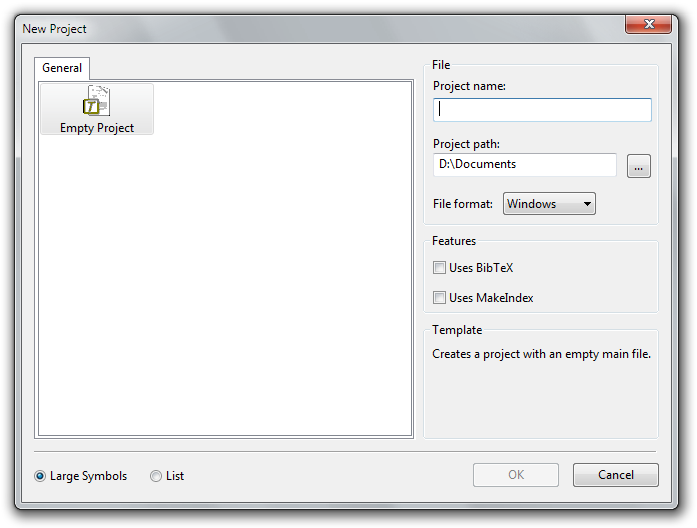
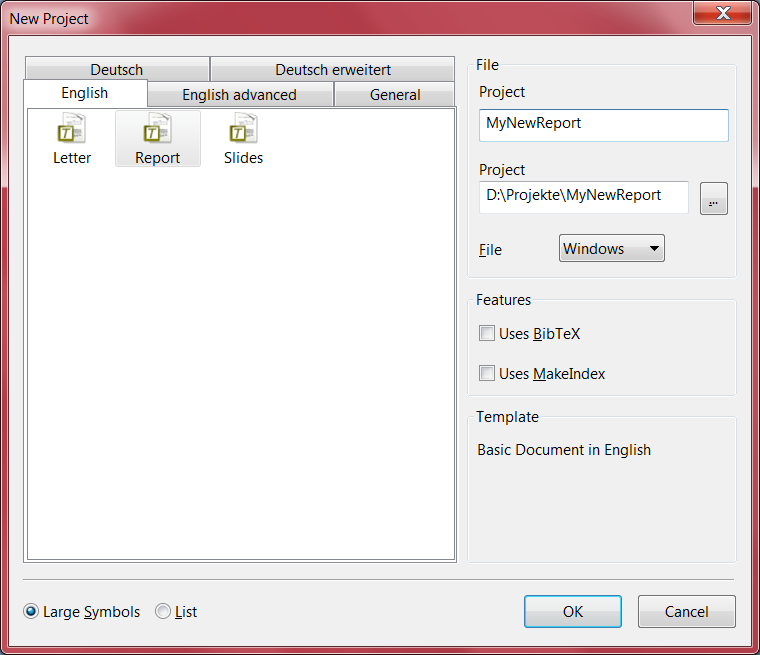
Help update

Changed region(s): [[0.0, 0.0, 1.0, 1.0]]

diff --git a/TCHelp/doctemplates.html b/TCHelp/doctemplates.html
@@ -43,7 +43,7 @@
           <div class="body">
             
   <div class="section" id="document-templates">
-<h1>Document templates</h1>
+<span id="id1"></span><h1>Document templates</h1>
 <p>TeXnicCenter provides support for custom document templates.</p>
 <p>A document template is a simple file or a wizard that generates a frame for a
 new document. When using document frames over and over again (i.e. a letter),
@@ -54,12 +54,17 @@ then using document templates will be a big help.</p>
 <li>Document wizards</li>
 </ul>
 <p>Several directories that contain document templates can be specified in the path
-options. The specified directories should contain sub-directories which
+options. The specified directories can contain sub-directories which
 represent the categories of the templates.</p>
-<p>When a new project is created TeXnicCenter provides the document templates found
+<p>When a new project is created, TeXnicCenter provides the templates found
 on the left side of the dialog <em class="xref std std-dialog">New Project</em>.</p>
-<p>The tabs represent the sub-directories of the directories specified in the path
-options. If one or more directories contain the same sub-directory TeXnicCenter
+<div class="figure">
+<img alt="_images/newproject.png" src="_images/newproject.png" />
+<p class="caption">The <em class="xref std std-dialog">New Project</em> dialog. See also the section on <a class="reference internal" href="projects.html#project-management"><em>project management</em></a>.</p>
+</div>
+<p>The tabs represent the sub-directories of the directories specified
+in the <a class="reference internal" href="options.html#directory-options"><em>directory options</em></a>.
+If one or more directories contain the same sub-directory, TeXnicCenter
 will display the files found in those sub-directories together in one merged
 list.</p>
 <div class="section" id="example">
@@ -112,13 +117,10 @@ company&#8217;s directory merged with templates from the local drive:</p>
 </ul>
 </div>
 <div class="section" id="file-based-document-templates">
-<h2>File based document templates</h2>
-<p>File based document templates are document templates created most easily.
-Templates of this type will be marked with this icon in the dialog
-<em class="xref std std-dialog">Project New</em>:</p>
-<p>A file based document template is a simple text file with the <tt class="file docutils literal"><span class="pre">.tex</span></tt> file
-extension placed in one of the template directories specified in the tab Path
-options.</p>
+<h2>File-based document templates</h2>
+<p>A file-based document template is created most easily.
+It is a simple text file with the <tt class="file docutils literal"><span class="pre">.tex</span></tt> file
+extension placed in one of the <a class="reference internal" href="options.html#directory-options"><em>template directories</em></a>.</p>
 <p>Such a file can contain an optional description that will be displayed in the
 field template description of the dialog <em class="xref std std-dialog">Project New</em>, when the
 template has been selected by the user. To create such a description simply
@@ -129,7 +131,7 @@ will copy the selected template file to the project&#8217;s directory, rename it
 the project&#8217;s name, remove the description line (if there is any) and replace
 the line delimiters with the ones, specified in the dialog &#8216;Project New&#8217;.</p>
 <div class="section" id="index-1">
-<span id="id1"></span><h3>Example</h3>
+<span id="id2"></span><h3>Example</h3>
 <p>This is a very simple example for a document template:</p>
 <div class="highlight-tex"><div class="highlight"><pre><span class="c">%description: An Article with a Title Page</span>
 
@@ -160,10 +162,8 @@ the line delimiters with the ones, specified in the dialog &#8216;Project New&#8
 </div>
 <div class="section" id="document-wizards">
 <h2>Document wizards</h2>
-<p>Document wizards are a special form of the document templates. Document
-templates of this type will be marked with this icon in the dialog
-<em class="xref std std-dialog">Project New</em>:</p>
-<p>A document wizard helps to create a new document by guiding step by step through
+<p>Document wizards are a special form of the document templates.
+It helps to create a new document by guiding step by step through
 the creation process. Document wizards are provided as <a class="reference internal" href="#term-dll"><em class="xref std std-term">DLL</em></a> located in
 the template directories, specified on the <em class="xref std std-tab">Path</em> options tab.</p>
 <p>Such wizards are provided on the TeXnicCenter homepage.</p>
@@ -200,7 +200,7 @@ use the <tt class="file docutils literal"><span class="pre">.dll</span></tt> fil
 <li class="toctree-l1"><a class="reference internal" href="projects.html">Project management</a></li>
 <li class="toctree-l1 current"><a class="current reference internal" href="">Document templates</a><ul>
 <li class="toctree-l2"><a class="reference internal" href="#example">Example</a></li>
-<li class="toctree-l2"><a class="reference internal" href="#file-based-document-templates">File based document templates</a></li>
+<li class="toctree-l2"><a class="reference internal" href="#file-based-document-templates">File-based document templates</a></li>
 <li class="toctree-l2"><a class="reference internal" href="#document-wizards">Document wizards</a></li>
 </ul>
 </li>

diff --git a/TCHelp/projects.html b/TCHelp/projects.html
@@ -43,7 +43,7 @@
           <div class="body">
             
   <div class="section" id="project-management">
-<h1>Project management</h1>
+<span id="id1"></span><h1>Project management</h1>
 <p>TeXnicCenter provides a project management tool that helps to keep the files of
 one document together and to generate output for a document.  It is especially
 useful when working on large documents.</p>
@@ -68,7 +68,7 @@ to simply modify project&#8217;s properties.</p>
 <img alt="_images/newproject.png" src="_images/newproject.png" />
 <p class="caption"><em class="xref std std-dialog">New Project</em> dialog</p>
 </div>
-<p>Choose one of the document templates from the list on the left side. The tabs
+<p>Choose one of the <a class="reference internal" href="doctemplates.html#document-templates"><em>document templates</em></a> from the list on the left side. The tabs
 are representing the available categories of the available templates.</p>
 <p>The other controls have the following meanings:</p>
 <dl class="docutils">

diff --git a/TCHelp/index.html b/TCHelp/index.html
@@ -70,7 +70,7 @@
 </li>
 <li class="toctree-l1"><a class="reference internal" href="doctemplates.html">Document templates</a><ul>
 <li class="toctree-l2"><a class="reference internal" href="doctemplates.html#example">Example</a></li>
-<li class="toctree-l2"><a class="reference internal" href="doctemplates.html#file-based-document-templates">File based document templates</a></li>
+<li class="toctree-l2"><a class="reference internal" href="doctemplates.html#file-based-document-templates">File-based document templates</a></li>
 <li class="toctree-l2"><a class="reference internal" href="doctemplates.html#document-wizards">Document wizards</a></li>
 </ul>
 </li>
